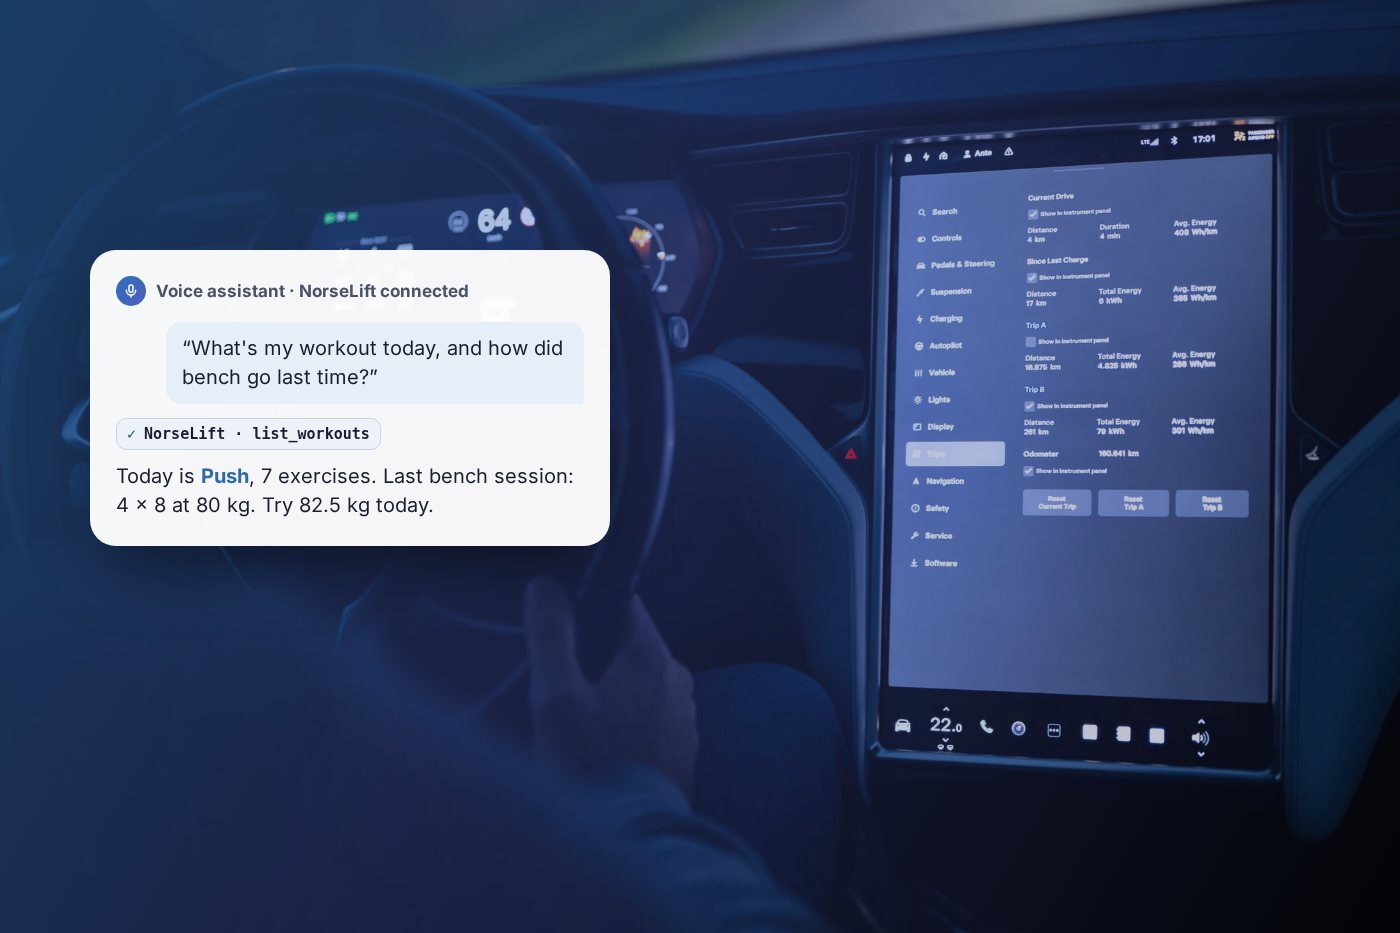
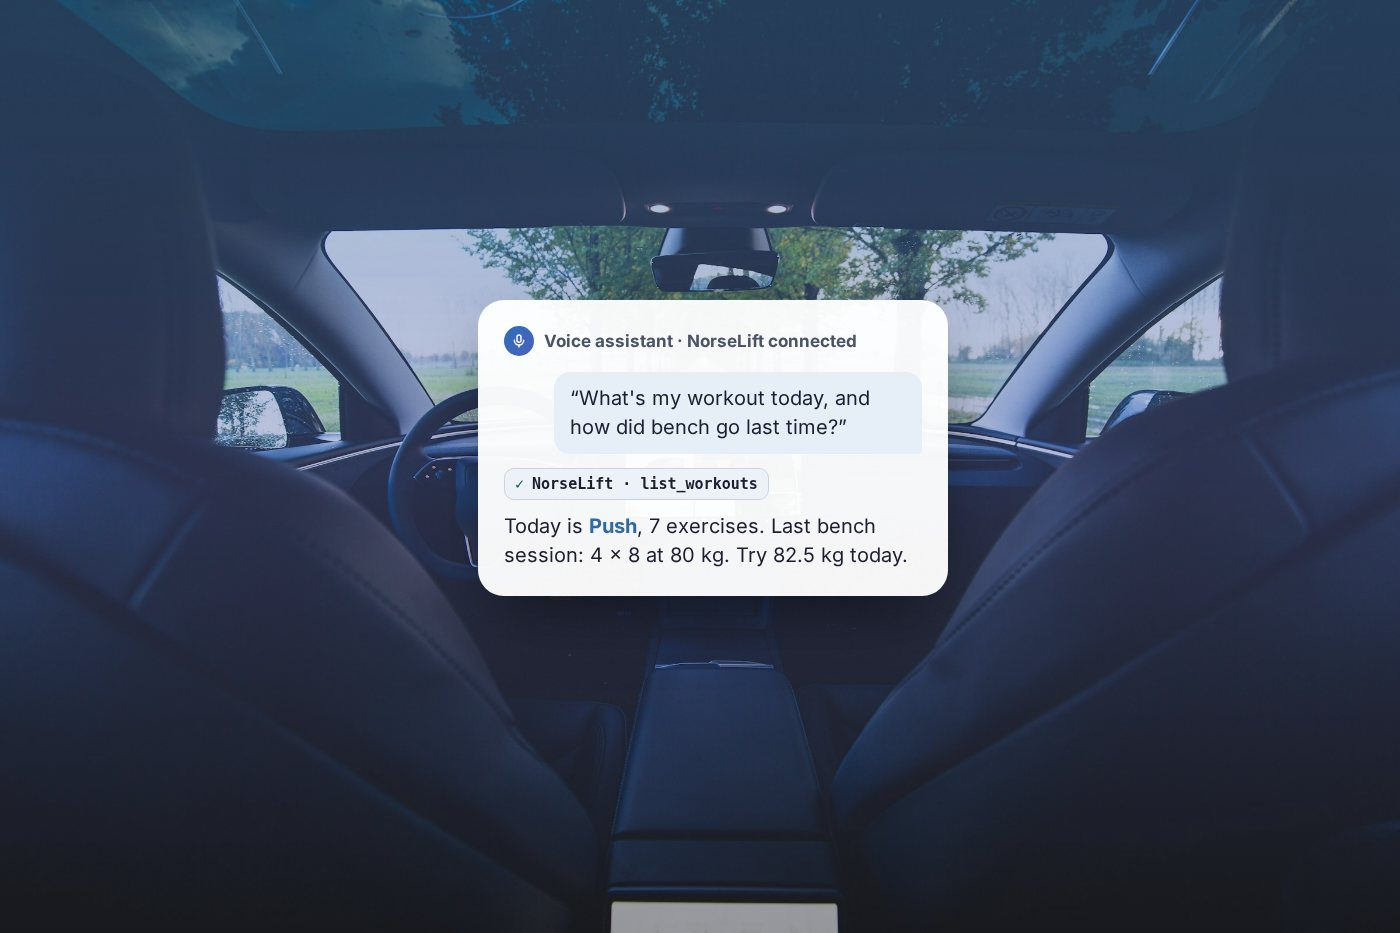
Grok/Tesla hero: back-seat Model 3 interior (Unsplash, Bram Van Oost)

diff --git a/blog/norselift-grok-tesla.html b/blog/norselift-grok-tesla.html
@@ -439,9 +439,9 @@
 
       <picture>
         <source type="image/webp" srcset="/blog/images/grok-norselift-hero.webp" />
-        <img class="hero-image" src="/blog/images/grok-norselift-hero.jpg" alt="Night-time car interior with a NorseLift answer card: today is Push, last bench session 4 × 8 at 80 kg" width="1400" height="933" fetchpriority="high" />
+        <img class="hero-image" src="/blog/images/grok-norselift-hero.jpg" alt="View from the back seat of an electric car toward the center screen, with a NorseLift answer card: today is Push, last bench session 4 × 8 at 80 kg" width="1400" height="933" fetchpriority="high" />
       </picture>
-      <p class="sources" style="margin-top:-8px;text-align:center">Background photo: <a href="https://www.pexels.com/photo/interior-of-tesla-car-18977346/" rel="noopener">Vladimir Srajber on Pexels</a>, tinted and overlaid by NorseLift.</p>
+      <p class="sources" style="margin-top:-8px;text-align:center">Background photo: <a href="https://unsplash.com/photos/the-interior-of-a-car-with-a-laptop-on-the-dashboard-1tm9Rkp_43Q" rel="noopener">Bram Van Oost on Unsplash</a>, tinted and overlaid by NorseLift.</p>
 
       <p>Grok can talk to NorseLift. Connect it once and you can ask about your training, log a session or plan your week, whether you're on grok.com, in Grok Bot, or (with some caveats) in your car.</p>
 

diff --git a/index.html b/index.html
@@ -858,7 +858,7 @@
           <div><time>October 15, 2026</time><h4>How to Connect Claude or ChatGPT to NorseLift</h4><p>Log workouts and build routines just by asking your AI.</p></div>
         </a>
         <a href="/blog/norselift-grok-tesla" class="card blog-card">
-          <img src="/blog/images/grok-norselift-thumb.jpg" alt="Car interior at night with a NorseLift workout answer card" width="700" height="466" loading="lazy" />
+          <img src="/blog/images/grok-norselift-thumb.jpg" alt="View from the back seat toward the dashboard with a NorseLift workout answer card" width="700" height="466" loading="lazy" />
           <div><time>October 15, 2026</time><h4>Use NorseLift with Grok, Grok Bot and in Your Tesla</h4><p>Custom MCP connector setup, Grok Bot, and Grok in the car.</p></div>
         </a>
         <a href="/blog/best-free-workout-tracker-app" class="card blog-card">

diff --git a/blog/index.html b/blog/index.html
@@ -267,7 +267,7 @@
       <div class="blog-grid">
 
         <a href="/blog/norselift-grok-tesla" class="blog-card">
-          <img class="blog-card-thumb" src="/blog/images/grok-norselift-thumb.jpg" alt="Car interior at night with a NorseLift workout answer card" width="700" height="466" loading="lazy" />
+          <img class="blog-card-thumb" src="/blog/images/grok-norselift-thumb.jpg" alt="View from the back seat toward the dashboard with a NorseLift workout answer card" width="700" height="466" loading="lazy" />
           <div class="blog-card-body">
             <div class="blog-card-date">October 15, 2026</div>
             <h2>How to Use NorseLift with Grok, Grok Bot and in Your Tesla</h2>
